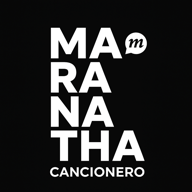
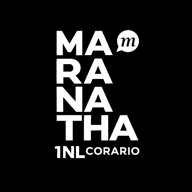
Add files via upload

Changed region(s): [[0.25, 0.125, 0.7812, 0.9375]]

diff --git a/index.html b/index.html
@@ -8,6 +8,33 @@
   <script type="module" src="app.js"></script>
 </head>
 <body>
+
+<style>
+  #splash {
+    position: fixed;
+    background: #000000;
+    width: 100vw;
+    height: 100vh;
+    z-index: 9999;
+    display: flex;
+    justify-content: center;
+    align-items: center;
+  }
+  #splash img {
+    width: 100px;
+  }
+</style>
+<div id="splash">
+  <img src="loader.gif" alt="Cargando...">
+</div>
+<script>
+  window.addEventListener('load', () => {
+    setTimeout(() => {
+      document.getElementById('splash').style.display = 'none';
+    }, 2000);
+  });
+</script>
+
   <header>
     <h1>Cancionero</h1>
     <input type="text" id="buscar" placeholder="Buscar canciones...">

diff --git a/README.md b/README.md
@@ -1,3 +1,3 @@
 # Cancionero Maranatha
 
-Tema blanco y negro con favoritos, sin splash screen.
+Incluye pantalla de carga animada y logotipo 1NL CORARIO.
